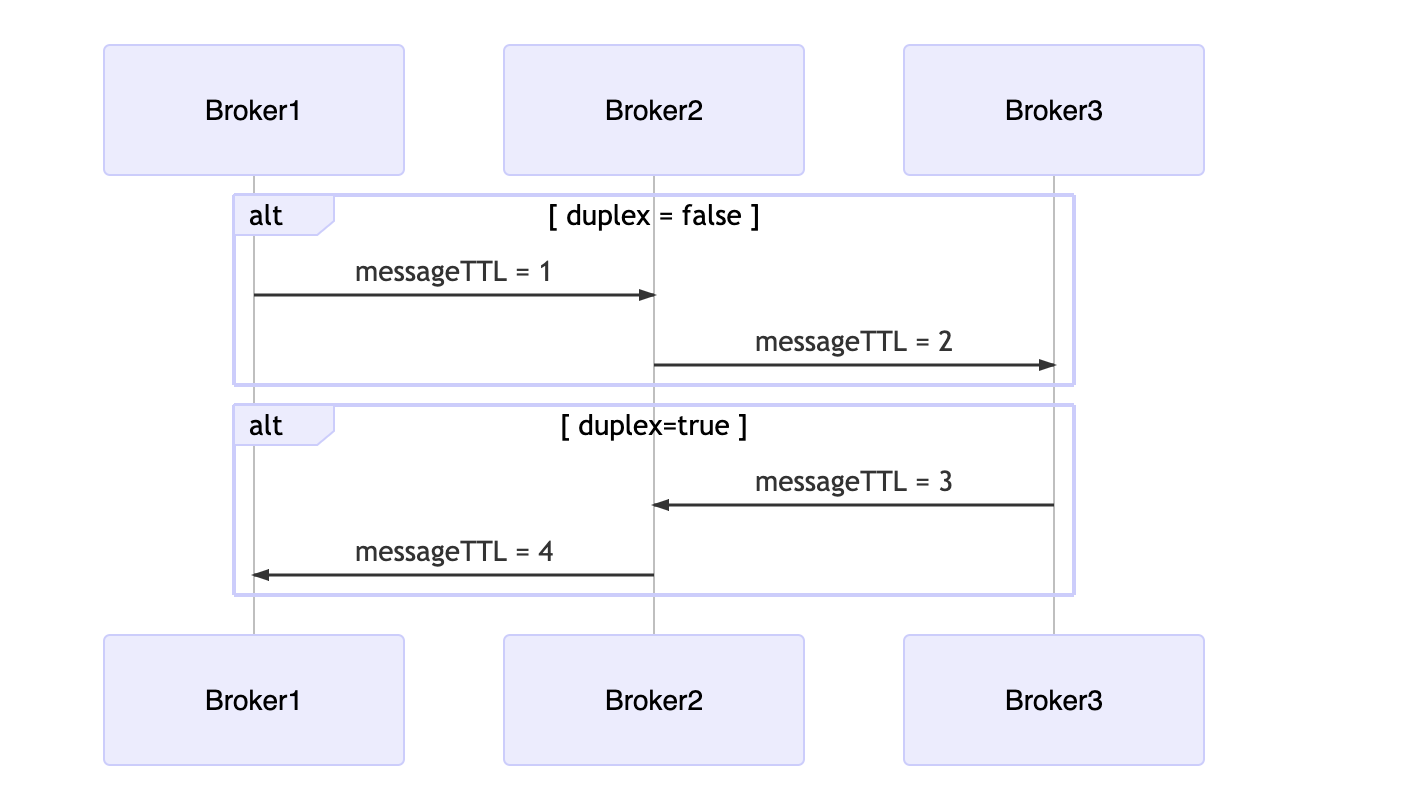
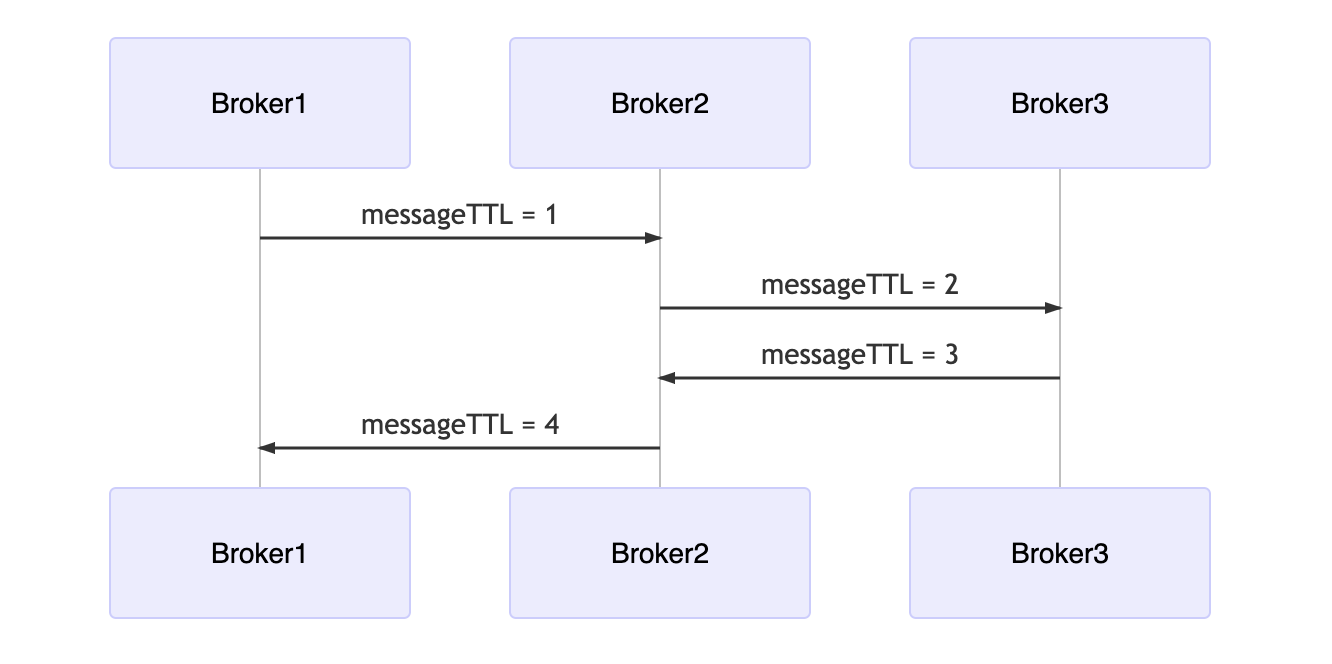
Nob interim test

diff --git a/labs/lab-9.md b/labs/lab-9.md
@@ -54,16 +54,50 @@ source ~/.bashrc
 ```
 </details>
 
+## Network Connectors
+
+Each network connector establishes a connection from one broker to another in a specific direction. A network connector from Broker1 to Broker2, propogates messages from Broker1 to Broker2.
+
+Network connectors can be established from Broker2 to Broker1 to allow flow of messages from Broker2 to Broker1. 
+
+There is an attribute ```duplex``` when set to ```true``` allows a bidirectional flow of messages on the same network connector. If this flag is set to ```false``` (default), the direction of messages is considered unidirectional.
+
+The ```duplex``` flag is useful when network connections are traversing a firewall and is common in **Hub and Spoke** broker topology.
+
+For each broker we can configure multiple network connectors. Each network connector in a broker can be configured to include or exclude specific destinations. This would be helpful to distribute the queue/topic load across multiple connectors.
+
+## Conduit Subscriptions
+
+In the networkConnector configuration you should have noticed an attribute named ```conduitSubscriptions```. This setting specifies how the messages are distributed. By default AmazonMQ sets this to ```false```
+
+![conduitSubscriptions enabled](/images/nob-conduit-true.png)
+
+When ```conduitSubscriptions``` set to ```true```, taking an example (see above diagram), when Producer1 sends 60 messages to Broker1, Broker1 sees two connections, one for Broker1 and another for Consumer1. So it distributes 60 messages, 30 each for Broker1 and rest 30 for Consumer1. 
+
+For Broker2, since there are two consumers, each consumer receives 15 messages each. This is an uneven distribution of messages.
+
+In order to distribute the messages evenly among all subscriptions, ```conduitSubscriptions``` should set to ```false``` (default in AmazonMQ).
+
+![conduitSubscriptions disabled](/images/nob-conduit-false.png)
+
+When ```conduitSubscriptions``` set to ```true```, taking an example (see above diagram), when Producer1 sends 60 messages to Broker1, Broker1 sees three connections, one consumer for Broker1 and two consumers on Broker2 and distributes messages equally among all consumers. So each consumer receives 20 messages each.
+
+## TTL Concepts
+
+
+
+### messageTTL
+
+
+![Message TTL](/images/nob-message-ttl.png)
+
+### consumerTTL
+
+![ConsumerTTL](/images/nob-consumer-ttl.png)
 
 ## Scenario 1 : Produce/Consume to/from same broker
 
 ## Scenario 2 : Produce to Broker 1 and Consume from Broker 2
-
-## TTL Concepts
-
-![Message TTL](/images/nob-message-ttl.png)
-
-![ConsumerTTL](/images/nob-consumer-ttl.png)
 
 ## Scenario 3 : duplex
 
